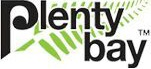
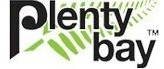
changed the green colour to  #95B570

diff --git a/web/css/style.css b/web/css/style.css
@@ -48,7 +48,7 @@ a {
 
 a:hover,
 a:focus {
-    color: #a8df4e;
+    color: #95B570;
     text-decoration:none !important;
     cursor: pointer;
     outline: none;
@@ -95,7 +95,7 @@ input[type="submit"] {
 input[type="submit"]:hover, 
 input[type="submit"]:focus {
     cursor: pointer;
-    background-color: #a8df4e;
+    background-color: #95B570;
     color: #000;
 }
 
@@ -180,7 +180,7 @@ select.delivery-options {
 }
 
 .color-basis {
-    color: #a8df4e !important;
+    color: #95B570 !important;
     font-weight: bold;
 }
 
@@ -251,7 +251,7 @@ select.delivery-options {
 }
 
 .navbar a h6:hover {
-    color: #a8df4e;
+    color: #95B570;
 }
 
 
@@ -364,7 +364,7 @@ select.delivery-options {
 
 
 #mid-header .history-list a h6:hover {
-    color: #a8df4e;
+    color: #95B570;
 }
 
 #mid-header .history .item {
@@ -453,7 +453,7 @@ select.delivery-options {
 }
 
 #mid-header .search-keys a:hover {
-     border-bottom: 3px solid #a8df4e;
+     border-bottom: 3px solid #95B570;
 }
 
 .dollar-select,
@@ -714,7 +714,7 @@ select.delivery-options {
 }
 
 .cart-list strong {
-    color: #a8df4e;
+    color: #95B570;
     margin: 0 2px;
 }
 
@@ -779,7 +779,7 @@ ul.nav {
     padding: 0;
 }
 .nav li a:hover {
-    background-color: #a8df4e !important;
+    background-color: #95B570 !important;
    
 } 
 
@@ -793,7 +793,7 @@ ul.nav {
 
 .nav a .nav-item-leftmenu {
     font-weight: bold;
-    color: #a8df4e;
+    color: #95B570;
     padding: 10px 25px;
     width: 100%;
 }
@@ -826,7 +826,7 @@ ul.nav {
 }
 
 .nav .dropdown-menu div a:hover {
-     border-bottom: 3px solid #a8df4e;
+     border-bottom: 3px solid #95B570;
      color: #000;
 }
 
@@ -1212,12 +1212,12 @@ del {
 }
 
 .search-keys.active {
-    background: #a8df4e;
+    background: #95B570;
     color: #000; 
 }
 
 .search-keys:hover {
-    background: #a8df4e;
+    background: #95B570;
     color: #000; 
     font-weight: bolder;
 }
@@ -1252,7 +1252,7 @@ del {
 }
 
 .page-breadcrumb .toolbarcate > div {
-    background-color: #a8df4e;
+    background-color: #95B570;
     margin-right: 10px;
     color: #fff;
     padding: 0px 10px 0px 10px;
@@ -1308,7 +1308,7 @@ del {
 
 
 .page-sub-title {
-    color: #a8df4e;
+    color: #95B570;
     font-weight: bolder;
     margin: 20px 20px 20px 50px;
     font-size: 19px;
@@ -1385,7 +1385,7 @@ input.qty {
 }
 
 .footer-guarantee {
-    background-color: #a8df4e;
+    background-color: #95B570;
     color: #fff;
 }
 
@@ -1488,11 +1488,11 @@ input.qty {
 
 .no-page h1 {
     font-size: 150px;
-    color: #a8df4e;
+    color: #95B570;
 }
 
 .no-page strong {
-    color: #a8df4e;
+    color: #95B570;
 }
 
 
@@ -1524,7 +1524,7 @@ input.qty {
 }
 
 /*#loading > div h4 {
-    color: #a8df4e;
+    color: #95B570;
     margin-bottom: 10px;
     text-align: center;
     font-weight: bold;

diff --git a/web/css/product.css b/web/css/product.css
@@ -2,7 +2,7 @@
 
 /*product products*/
 #product-page .product-desc {
-    color: #a8df4e !important;
+    color: #95B570 !important;
     margin-top: 10px;
 }
 
@@ -59,7 +59,7 @@
 
 #product-page .product-info .col-xs-7 .product-promo {
     font-size: 20px;
-    color: #a8df4e;
+    color: #95B570;
     font-weight: bold;
 }
 
@@ -71,7 +71,7 @@
 #product-page .add-to-cart input[type="submit"] {
     margin-right: 30px;
     height: 35px;
-    background: #a8df4e !important;
+    background: #95B570 !important;
     color: #000;
 } 
 
@@ -101,13 +101,13 @@
     background: #fff;
     height: 30px;
     font-size: 20px;
-    color: #a8df4e;
+    color: #95B570;
     font-weight: bolder;
     line-height: 30px;
 }
 
 #product-page .product-tab-update {
-    background-color: #a8df4e;
+    background-color: #95B570;
 }
 
 #product-page .product-tab-update .leaf {
@@ -128,7 +128,7 @@
     font-size: 16px;
     margin:10px 0px;
     line-height:25px;
-    color: #a8df4e;
+    color: #95B570;
     font-weight: bold;
 }
 
@@ -140,7 +140,7 @@
 
 #product-page .tab-contents .tab-content-foot {
     font-size: 12px;
-    color: #a8df4e;
+    color: #95B570;
 }
 
 #product-page .tab-contents img,

diff --git a/web/css/login.css b/web/css/login.css
@@ -15,7 +15,7 @@ body {
 }
 
 #login-header {
-    border-bottom: 2px solid #a8df4e;
+    border-bottom: 2px solid #95B570;
     min-height: 100px;
     height: auto;
 }
@@ -96,7 +96,7 @@ body {
 }
 
 .controls i.fa-check-circle {
-    color: #a8df4e;
+    color: #95B570;
 }
 
 

diff --git a/web/css/cart.css b/web/css/cart.css
@@ -18,7 +18,7 @@
 }
 
 #cart-page-container .cart-tabs .cart-tab.active {
-    color: #a8df4e;
+    color: #95B570;
 }
 
 #cart-page-container .cart-tab-arrow {
